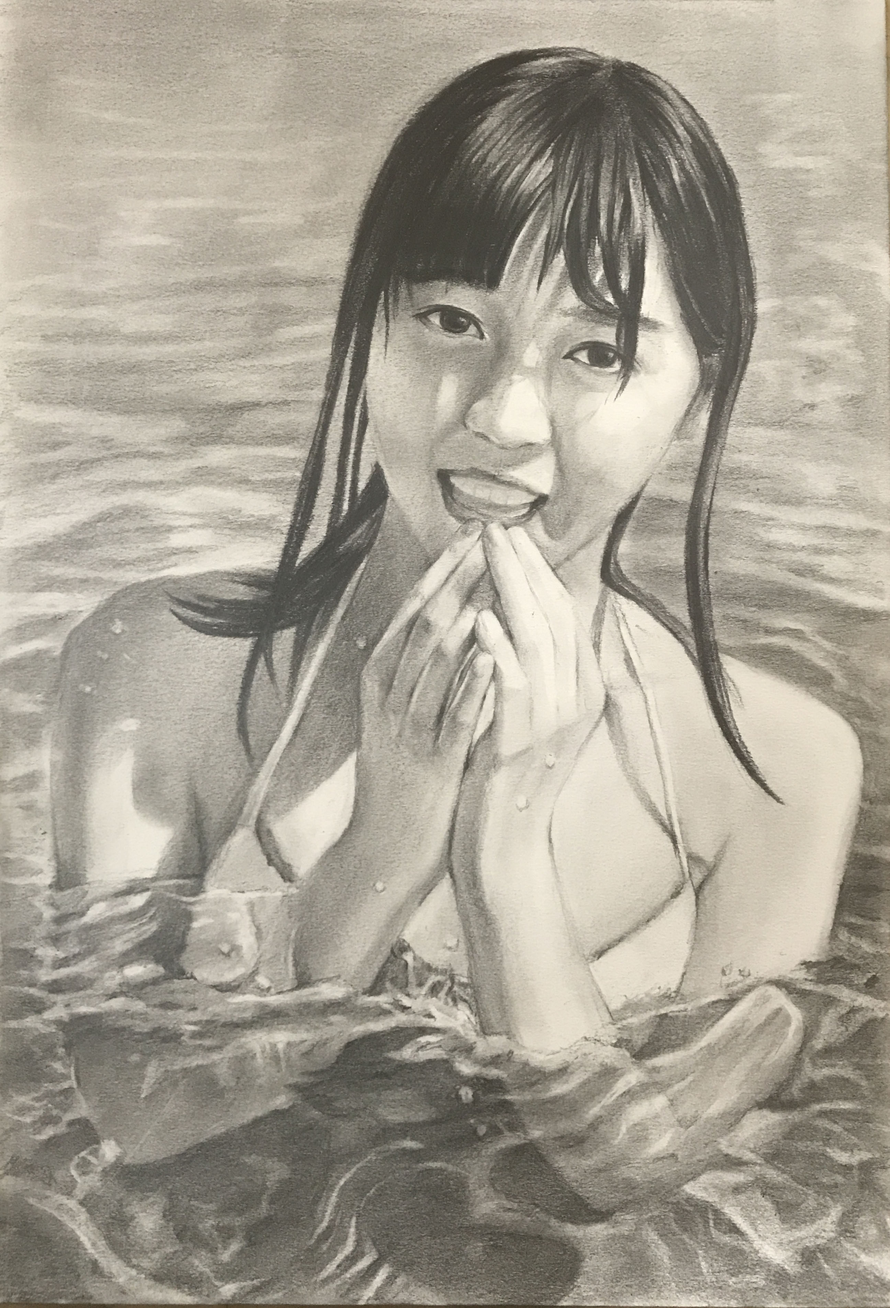
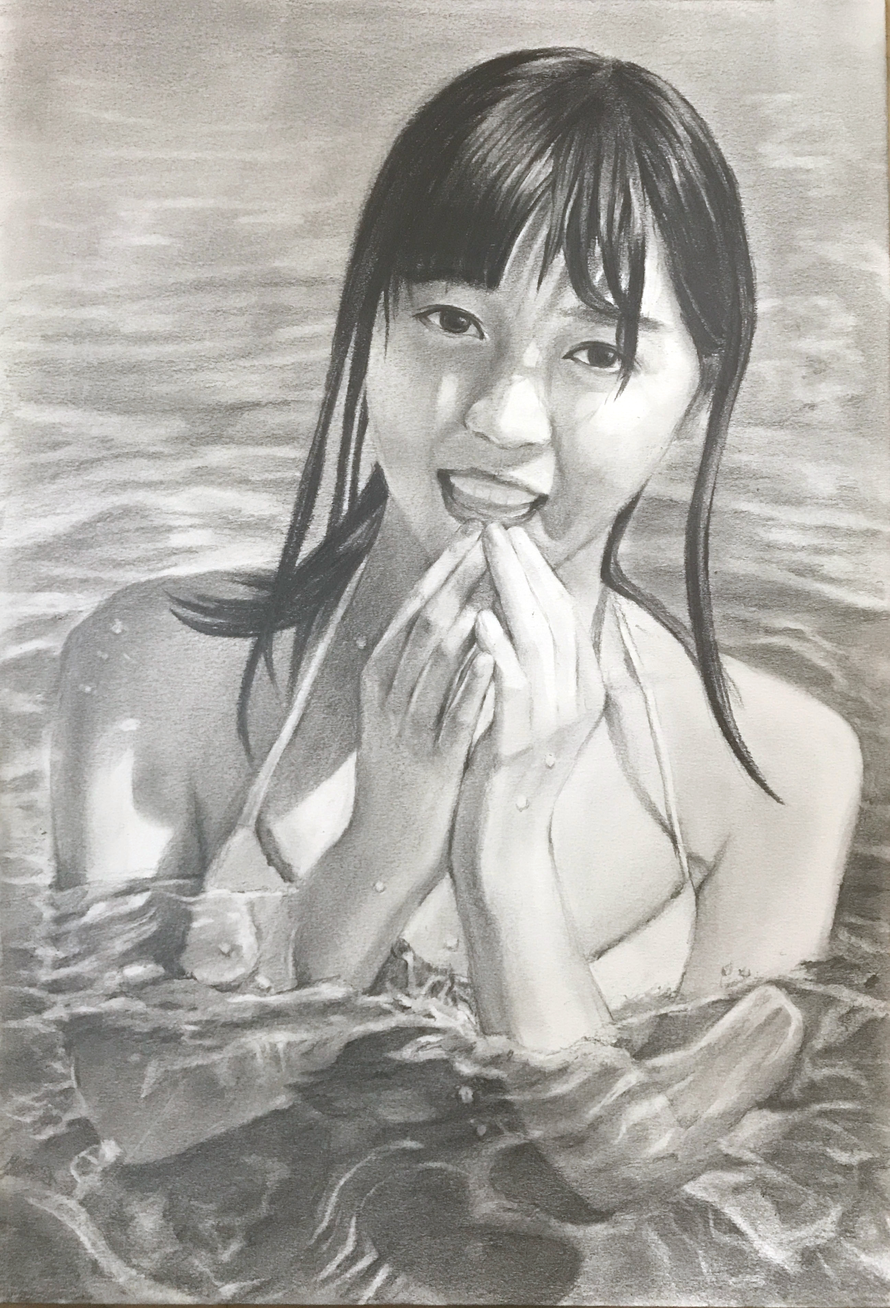
Compressed img

diff --git a/index.html b/index.html
@@ -109,7 +109,7 @@
 					<div class="owl-carousel owl-carousel-fullwidth">
 						<div class="item">
 							<a href="#">
-								<img src="images/slider_1.jpg" alt="Artwork By Andrew Lin">
+								<img src="images/slider_1-compressed.jpg" alt="Artwork By Andrew Lin">
 								<div class="slider-copy">
 									<h2>Dajia Jenn Lann Temple 大甲鎮瀾宮</h2>
 								</div>
@@ -117,7 +117,7 @@
 						</div>
 						<div class="item">
 							<a href="#">
-								<img src="images/slider_2.jpg" alt="Artwork By Andrew Lin">
+								<img src="images/slider_2-compressed.jpg" alt="Artwork By Andrew Lin">
 								<div class="slider-copy">
 									<h2>Village Canal 鄉村水道</h2>
 								</div>
@@ -125,7 +125,7 @@
 						</div>
 						<div class="item">
 							<a href="#">
-								<img src="images/slider_3.jpg" alt="Artwork By Andrew Lin">
+								<img src="images/slider_3-compressed.jpg" alt="Artwork By Andrew Lin">
 								<div class="slider-copy">
 									<h2>Skull</h2>
 								</div>
@@ -185,7 +185,7 @@
 								<div class="grid">
 									<div class="column-xs-12 column-md-4">
 										<figure class="img-container">
-											<img class="zoom"src="images/Blue Phoenix Messenger, Love Nikki 奇迹暖暖 2017.jpg" />
+											<img class="zoom"src="images/Blue-Phoenix-Messenger,-Love-Nikki-奇迹暖暖-2017-compressed.jpg" />
 											<figcaption class="img-content">
 												<h2 class="title">Smart Watch</h2>
 												<h3 class="category">Showcase</h3>
@@ -198,7 +198,7 @@
 									</div>
 									<div class="column-xs-12 column-md-4">
 										<figure class="img-container">
-											<img class="zoom"src="images/Flowers cropped.jpg" />
+											<img class="zoom"src="images/Flowers-cropped-compressed.jpg" />
 											<figcaption class="img-content">
 												<h2 class="title">Camera Film</h2>
 												<h3 class="category">Showcase</h3>
@@ -211,7 +211,7 @@
 									</div>
 									<div class="column-xs-12 column-md-4">
 										<figure class="img-container">
-											<img class="zoom"src="images/WLOP fanart.jpg">
+											<img class="zoom"src="images/WLOP-fanart-compressed.jpg">
 											<figcaption class="img-content">
 												<h2 class="title"></h2>
 												<h3 class="category"></h3>
@@ -227,64 +227,64 @@
 								<div class="grid-2">
 									<div class="column-xs-12 column-md-6">
 										<figure class="img-container-2">
-											<img src="images/IMG_1888.jpg" />
+											<img src="images/IMG_1888-compressed.jpg" />
 										</figure>
 									</div>
 									<div class="column-xs-12 column-md-6">
 										<figure class="img-container-2">
-											<img src="images/IMG_1884.jpg" />
+											<img src="images/IMG_1884-compressed.jpg" />
 										</figure>
 									</div>
 									<div class="column-xs-12 column-md-6">
 										<figure class="img-container-2">
-											<img src="images/IMG_1886.jpg" />
+											<img src="images/IMG_1886-compressed.jpg" />
 										</figure>
 									</div>
 									<div class="column-xs-12 column-md-6">
 										<figure class="img-container-2">
-											<img src="images/IMG_1887.jpg" />
-										</figure>
-									</div>
-
-									<div class="column-xs-12 column-md-6">
-										<figure class="img-container-2">
-											<img src="images/IMG_1889.jpg" />
-										</figure>
-									</div>
-									<div class="column-xs-12 column-md-6">
-										<figure class="img-container-2">
-											<img src="images/IMG_1885.jpg" />
-										</figure>
-									</div>
-									<div class="column-xs-12 column-md-6">
-										<figure class="img-container-2">
-											<img src="images/Pink Tubes 機械 2016.jpg" />
-										</figure>
-									</div>
-									<div class="column-xs-12 column-md-6">
-										<figure class="img-container-2">
-											<img src="images/IMG_1890.jpg" />
+											<img src="images/IMG_1887-compressed.jpg" />
 										</figure>
 									</div>
 
 									<div class="column-xs-12 column-md-6">
 										<figure class="img-container-2">
-											<img src="images/IMG_1746.jpg" />
+											<img src="images/IMG_1889-compressed.jpg" />
 										</figure>
 									</div>
 									<div class="column-xs-12 column-md-6">
 										<figure class="img-container-2">
-											<img src="images/IMG_1749.jpg" />
+											<img src="images/IMG_1885-compressed.jpg" />
 										</figure>
 									</div>
 									<div class="column-xs-12 column-md-6">
 										<figure class="img-container-2">
-											<img src="images/IMG_1751.jpg" />
+											<img src="images/Pink-Tubes-機械-2016-compressed.jpg" />
 										</figure>
 									</div>
 									<div class="column-xs-12 column-md-6">
 										<figure class="img-container-2">
-											<img src="images/IMG_1629.jpg" />
+											<img src="images/IMG_1890-compressed.jpg" />
+										</figure>
+									</div>
+
+									<div class="column-xs-12 column-md-6">
+										<figure class="img-container-2">
+											<img src="images/IMG_1746-compressed.jpg" />
+										</figure>
+									</div>
+									<div class="column-xs-12 column-md-6">
+										<figure class="img-container-2">
+											<img src="images/IMG_1749-compressed.jpg" />
+										</figure>
+									</div>
+									<div class="column-xs-12 column-md-6">
+										<figure class="img-container-2">
+											<img src="images/IMG_1751-compressed.jpg" />
+										</figure>
+									</div>
+									<div class="column-xs-12 column-md-6">
+										<figure class="img-container-2">
+											<img src="images/IMG_1629-compressed.jpg" />
 										</figure>
 									</div>
 								</div>
@@ -296,7 +296,7 @@
 								<div class="grid-3">
 									<div class="column-xs-12">
 										<figure class="img-container-3">
-											<img src="images/Skull 1.jpg" />
+											<img src="images/Skull-1-compressed.jpg" />
 											<figcaption class="img-content">
 												<h2 class="title">Wrist Watch</h2>
 												<h3 class="category">Showcase</h3>
@@ -309,7 +309,7 @@
 									</div>
 									<div class="column-xs-12">
 										<figure class="img-container-3">
-											<img src="images/Portrait 3.jpg" />
+											<img src="images/Portrait-3-compressed.jpg" />
 											<figcaption class="img-content">
 												<h2 class="title">Wrist Watch</h2>
 												<h3 class="category">Showcase</h3>
@@ -322,7 +322,7 @@
 									</div>
 									<div class="column-xs-12">
 										<figure class="img-container-3">
-											<img src="images/Portrait 6.jpg" />
+											<img src="images/Portrait-6-compressed.jpg" />
 											<figcaption class="img-content">
 												<h2 class="title">Wrist Watch</h2>
 												<h3 class="category">Showcase</h3>
@@ -335,7 +335,7 @@
 									</div>
 									<div class="column-xs-12">
 										<figure class="img-container-3">
-											<img src="images/Skull 2.png" />
+											<img src="images/Skull-2 compressed.jpg" />
 											<figcaption class="img-content">
 												<h2 class="title">Wrist Watch</h2>
 												<h3 class="category">Showcase</h3>
@@ -349,7 +349,7 @@
 
 									<div class="column-xs-12">
 										<figure class="img-container-3">
-											<img src="images/Portrait 5.jpg" />
+											<img src="images/Portrait-5-compressed.jpg" />
 											<figcaption class="img-content">
 												<h2 class="title">Wrist Watch</h2>
 												<h3 class="category">Showcase</h3>
@@ -362,7 +362,7 @@
 									</div>
 									<div class="column-xs-12">
 										<figure class="img-container-3">
-											<img src="images/Portrait 4.jpg" />
+											<img src="images/Portrait-4-compressed.jpg" />
 											<figcaption class="img-content">
 												<h2 class="title">Wrist Watch</h2>
 												<h3 class="category">Showcase</h3>
@@ -375,7 +375,7 @@
 									</div>
 									<div class="column-xs-12">
 										<figure class="img-container-3">
-											<img src="images/Portrait 8.jpg" />
+											<img src="images/Portrait-8-compressed.jpg" />
 											<figcaption class="img-content">
 												<h2 class="title">Wrist Watch</h2>
 												<h3 class="category">Showcase</h3>
@@ -388,7 +388,7 @@
 									</div>
 									<div class="column-xs-12">
 										<figure class="img-container-3">
-											<img src="images/Portrait 7.jpg" />
+											<img src="images/Portrait-7-compressed.jpg" />
 											<figcaption class="img-content">
 												<h2 class="title">Wrist Watch</h2>
 												<h3 class="category">Showcase</h3>
@@ -405,7 +405,7 @@
 								<div class="grid-4">
 									<div class="column-xs-12">
 										<figure class="img-container-4">
-											<img src="images/Hina Fanart.jpg" />
+											<img src="images/Hina-Fanart-compressed.jpg" />
 											<figcaption class="img-content">
 												<h2 class="title">Wrist Watch</h2>
 												<h3 class="category">Showcase</h3>
@@ -418,7 +418,7 @@
 									</div>
 									<div class="column-xs-12">
 										<figure class="img-container-4">
-											<img src="images/Green Fairy.jpg" />
+											<img src="images/Green-Fairy-compressed.jpg" />
 											<figcaption class="img-content">
 												<h2 class="title">Wrist Watch</h2>
 												<h3 class="category">Showcase</h3>
@@ -431,7 +431,7 @@
 									</div>
 									<div class="column-xs-12">
 										<figure class="img-container-4">
-											<img src="images/anime fan5.jpg" />
+											<img src="images/anime-fan5-compressed.jpg" />
 											<figcaption class="img-content">
 												<h2 class="title">Wrist Watch</h2>
 												<h3 class="category">Showcase</h3>
@@ -444,7 +444,7 @@
 									</div>
 									<div class="column-xs-12">
 										<figure class="img-container-4">
-											<img src="images/anime fan1.jpg" />
+											<img src="images/anime-fan1 compressed.jpg" />
 											<figcaption class="img-content">
 												<h2 class="title">Wrist Watch</h2>
 												<h3 class="category">Showcase</h3>
